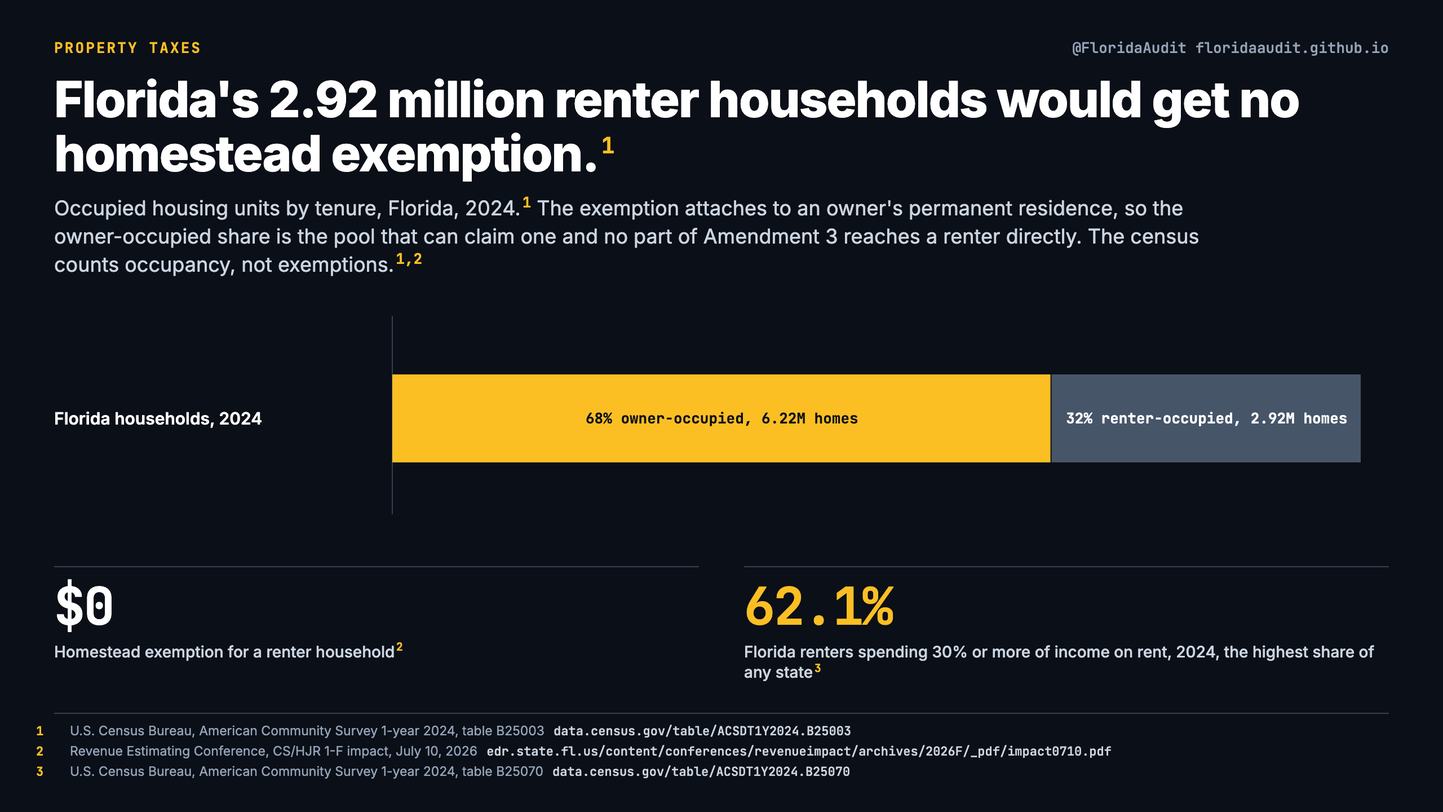
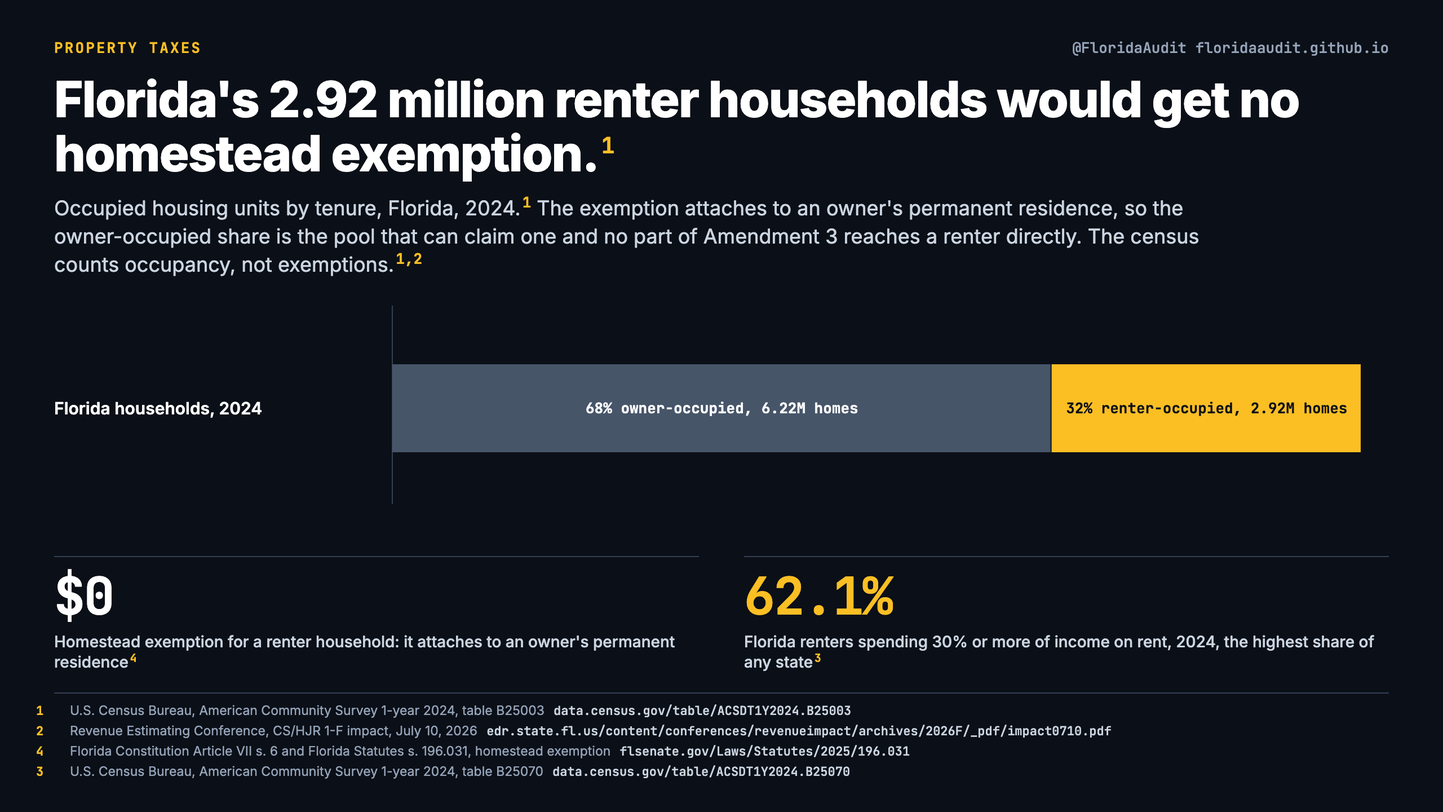
Methods rule rewritten, Property Taxes charts rebuilt

diff --git a/c/property-taxes/index.html b/c/property-taxes/index.html
@@ -28,15 +28,15 @@
       <dt>What these charts establish</dt><dd>What the amendment's text does and who it reaches: homesteads, non-homestead property through a lower assessment cap, and renters not at all. It also carries the state Revenue Estimating Conference's estimate of lost local revenue, statewide and county by county. It does not show how counties and cities would respond.</dd>
     </dl>
     <ul class="topic-charts">
-      <li><a href="/c/property-taxes/homestead-exemption-amounts.html"><img src="/charts/property-taxes/homestead-exemption-amounts.webp" width="1280" height="720" alt="By 2028 the maximum non-school homestead exemption would be $250,000 under Amendment 3, against $52,805 under current law. Maximum exempt assessed value for a qualifying homestead, non-school levies, by roll year. All three lines start at today's $51,411. The steps stop in 2028 and the top line only tracks inflation after that, while the revenue it removes keeps growing to 2031-32. Nominal dollars." loading="lazy"><span>By 2028 the maximum non-school homestead exemption would be $250,000 under Amendment 3, against $52,805 under current law.</span></a></li>
+      <li><a href="/c/property-taxes/homestead-exemption-amounts.html"><img src="/charts/property-taxes/homestead-exemption-amounts.webp" width="1280" height="720" alt="By 2028 the maximum non-school homestead exemption would be $250,000 under Amendment 3, against $52,805 under current law. Maximum exempt assessed value for a qualifying homestead, non-school levies, by roll year. Both lines start at today's $51,411. The steps stop in 2028 and the top line only tracks inflation after that, while the revenue it removes keeps growing to 2031-32. Nominal dollars." loading="lazy"><span>By 2028 the maximum non-school homestead exemption would be $250,000 under Amendment 3, against $52,805 under current law.</span></a></li>
       <li><a href="/c/property-taxes/homeowner-savings.html"><img src="/charts/property-taxes/homeowner-savings.webp" width="1280" height="720" alt="From 2028, the exemption would cut a homestead's non-school property tax by at most $2,075 a year. Yearly saving for one qualifying homestead, not for a household: the exempt value added over the 2026 maximum ($98,589 in 2027, $198,589 in 2028), taxed at an average non-school rate, with no rate or inflation changes. $2,075 is the ceiling, reached only by a home with enough assessed value to use the whole exemption; below that a home saves in proportion to its assessed value, and a renter saves nothing. The statewide figure is calculated here from Department of Revenue millage. Pinellas County is the sole county who published its own illustration, at 12.2011 mills against the state's 10.449." loading="lazy"><span>From 2028, the exemption would cut a homestead's non-school property tax by at most $2,075 a year.</span></a></li>
       <li><a href="/c/property-taxes/renters-and-new-residents.html"><img src="/charts/property-taxes/renters-and-new-residents.webp" width="1280" height="720" alt="Florida's 2.92 million renter households would get no homestead exemption. Occupied housing units by tenure, Florida, 2024. The exemption attaches to an owner's permanent residence, so the owner-occupied share is the pool that can claim one and no part of Amendment 3 reaches a renter directly. The census counts occupancy, not exemptions." loading="lazy"><span>Florida's 2.92 million renter households would get no homestead exemption.</span></a></li>
       <li><a href="/c/property-taxes/local-revenue-impact.html"><img src="/charts/property-taxes/local-revenue-impact.webp" width="1280" height="720" alt="Amendment 3 would reduce local non-school property tax revenue by an estimated $11.83 billion a year by 2031. Estimated reduction in local non-school property tax revenue by the government that levies it. On the November 3, 2026 ballot; needs 60% to pass. Ten counties carry $7.54B of it, led by Miami-Dade $1.39B and Broward $1.19B, with all 67 in the CSV. It keeps growing after the exemption stops stepping up in 2028, because the conference counts the sixth year as the recurring impact and the lower assessment cap compounds. Holds 2025 tax rates constant. Nominal dollars." loading="lazy"><span>Amendment 3 would reduce local non-school property tax revenue by an estimated $11.83 billion a year by 2031.</span></a></li>
       <li><a href="/c/property-taxes/permitted-uses.html"><img src="/charts/property-taxes/permitted-uses.webp" width="1280" height="720" alt="Amendment 3 lists seven permitted uses for county and city property taxes. Text of the proposed Article VII, Section 9(a)(2). School district and special district levies are not covered by this list." loading="lazy"><span>Amendment 3 lists seven permitted uses for county and city property taxes.</span></a></li>
       <li><a href="/c/property-taxes/the-legislative-vote.html"><img src="/charts/property-taxes/the-legislative-vote.webp" width="1280" height="720" alt="Amendment 3 is on the ballot because the Legislature put it there: 75-26 in the House, 30-9 in the Senate. Votes on June 2, 2026 on CS/HJR 1-F. A joint resolution does not go to the governor." loading="lazy"><span>Amendment 3 is on the ballot because the Legislature put it there: 75-26 in the House, 30-9 in the Senate.</span></a></li>
-      <li><a href="/c/property-taxes/impact-by-county.html"><img src="/charts/property-taxes/impact-by-county.webp" width="1280" height="720" alt="As a share of today's budget, eight counties will lose more than half of their non-school property tax. Recurring annual reduction estimated for FY2031-32, against each county's 2025 non-school levies, for every local government in the county. The two years are deliberate: the base grows by 2031, so the share of that later base is smaller than the share here. Holds 2025 tax rates constant." loading="lazy"><span>As a share of today's budget, eight counties will lose more than half of their non-school property tax.</span></a></li>
+      <li><a href="/c/property-taxes/impact-by-county.html"><img src="/charts/property-taxes/impact-by-county.webp" width="1280" height="720" alt="As a share of today's budget, eight counties will lose more than half of their non-school property tax. Recurring annual reduction estimated for FY2031-32, against each county's 2025 non-school levies, for every local government in the county. The two years are deliberate: the base grows by 2031, so the share of that later base is smaller than the share here. Holds 2025 tax rates constant. All 67 counties are in the CSV." loading="lazy"><span>As a share of today's budget, eight counties will lose more than half of their non-school property tax.</span></a></li>
       <li><a href="/c/property-taxes/impact-by-county-dollars.html"><img src="/charts/property-taxes/impact-by-county-dollars.webp" width="1280" height="720" alt="Ten counties carry $7.54 billion of the $11.83 billion, and two thirds of it comes off county government. Recurring annual reduction in local non-school property tax revenue once the exemption is fully phased in, for the ten largest of Florida's 67 counties, split between the county government and the cities and special districts inside it. Duval has no county-government bar: Jacksonville and Duval County are one consolidated government, which the table files as a municipality, so its whole reduction sits in the purple bar. All 67 counties are in the CSV behind this chart. Holds 2025 tax rates constant. Nominal dollars." loading="lazy"><span>Ten counties carry $7.54 billion of the $11.83 billion, and two thirds of it comes off county government.</span></a></li>
-      <li><a href="/c/property-taxes/non-homestead-assessment-cap.html"><img src="/charts/property-taxes/non-homestead-assessment-cap.webp" width="1280" height="720" alt="Separately, the yearly assessment cap on rental and commercial property would fall from 10% to 5%. Maximum annual growth in taxable assessed value for non-homestead, non-agricultural parcels, non-school levies; the current 10% cap has been in place since 2008. The cap limits the value the tax is computed on, not the market price, not the rent, and not the millage rate. The lines are an illustration calculated here, not a forecast: one parcel assessed at $1,000,000 in 2026 whose market value then rises 12% a year, the condition under which a cap binds at all." loading="lazy"><span>Separately, the yearly assessment cap on rental and commercial property would fall from 10% to 5%.</span></a></li>
+      <li><a href="/c/property-taxes/non-homestead-assessment-cap.html"><img src="/charts/property-taxes/non-homestead-assessment-cap.webp" width="1280" height="720" alt="Separately, the yearly assessment cap on rental and commercial property would fall from 10% to 5%. Maximum annual growth in taxable assessed value for non-homestead, non-agricultural parcels, non-school levies; the current 10% cap has been in place since 2008. The cap limits the value the tax is computed on, not the market price, not the rent, and not the millage rate. The lines are an illustration calculated here, not a forecast: one parcel assessed at $1,000,000 in 2026 whose market value then rises 12% a year, about what Florida saw in 2021 and 2022. A 5% cap bites whenever growth runs above 5%; the current 10% cap only bites above 10%." loading="lazy"><span>Separately, the yearly assessment cap on rental and commercial property would fall from 10% to 5%.</span></a></li>
     </ul>
   </article></main>
 <footer><a href="/">All charts</a> · <a href="/methods.html">Methods</a> · <a href="/corrections.html">Corrections</a></footer>

diff --git a/c/property-taxes/non-homestead-assessment-cap.html b/c/property-taxes/non-homestead-assessment-cap.html
@@ -15,13 +15,13 @@
   <meta property="og:image" content="https://floridaaudit.github.io/charts/property-taxes/non-homestead-assessment-cap-card.png">
   <meta property="og:image:width" content="1200">
   <meta property="og:image:height" content="630">
-  <meta property="og:image:alt" content="Separately, the yearly assessment cap on rental and commercial property would fall from 10% to 5%. Maximum annual growth in taxable assessed value for non-homestead, non-agricultural parcels, non-school levies; the current 10% cap has been in place since 2008. The cap limits the value the tax is computed on, not the market price, not the rent, and not the millage rate. The lines are an illustration calculated here, not a forecast: one parcel assessed at $1,000,000 in 2026 whose market value then rises 12% a year, the condition under which a cap binds at all.">
+  <meta property="og:image:alt" content="Separately, the yearly assessment cap on rental and commercial property would fall from 10% to 5%. Maximum annual growth in taxable assessed value for non-homestead, non-agricultural parcels, non-school levies; the current 10% cap has been in place since 2008. The cap limits the value the tax is computed on, not the market price, not the rent, and not the millage rate. The lines are an illustration calculated here, not a forecast: one parcel assessed at $1,000,000 in 2026 whose market value then rises 12% a year, about what Florida saw in 2021 and 2022. A 5% cap bites whenever growth runs above 5%; the current 10% cap only bites above 10%.">
   <meta name="twitter:card" content="summary_large_image">
   <meta name="twitter:site" content="@FloridaAudit">
   <meta name="twitter:title" content="Separately, the yearly assessment cap on rental and commercial property would fall from 10% to 5%.">
   <meta name="twitter:description" content="Property Taxes: Maximum annual growth in taxable assessed value for non-homestead, non-agricultural parcels, non-school levies; the current 10% cap has been...">
   <meta name="twitter:image" content="https://floridaaudit.github.io/charts/property-taxes/non-homestead-assessment-cap-card.png">
-  <meta name="twitter:image:alt" content="Separately, the yearly assessment cap on rental and commercial property would fall from 10% to 5%. Maximum annual growth in taxable assessed value for non-homestead, non-agricultural parcels, non-school levies; the current 10% cap has been in place since 2008. The cap limits the value the tax is computed on, not the market price, not the rent, and not the millage rate. The lines are an illustration calculated here, not a forecast: one parcel assessed at $1,000,000 in 2026 whose market value then rises 12% a year, the condition under which a cap binds at all.">
+  <meta name="twitter:image:alt" content="Separately, the yearly assessment cap on rental and commercial property would fall from 10% to 5%. Maximum annual growth in taxable assessed value for non-homestead, non-agricultural parcels, non-school levies; the current 10% cap has been in place since 2008. The cap limits the value the tax is computed on, not the market price, not the rent, and not the millage rate. The lines are an illustration calculated here, not a forecast: one parcel assessed at $1,000,000 in 2026 whose market value then rises 12% a year, about what Florida saw in 2021 and 2022. A 5% cap bites whenever growth runs above 5%; the current 10% cap only bites above 10%.">
   <link rel="icon" href="/assets/favicon.png" type="image/png">
   <link rel="stylesheet" href="/assets/site.css">
   <script type="application/ld+json">
@@ -70,9 +70,9 @@
   <article>
     <p class="kicker">Property Taxes</p>
     <h1>Separately, the yearly assessment cap on rental and commercial property would fall from 10% to 5%.</h1>
-    <p class="sub">Maximum annual growth in taxable assessed value for non-homestead, non-agricultural parcels, non-school levies; the current 10% cap has been in place since 2008. The cap limits the value the tax is computed on, not the market price, not the rent, and not the millage rate. The lines are an illustration calculated here, not a forecast: one parcel assessed at $1,000,000 in 2026 whose market value then rises 12% a year, the condition under which a cap binds at all.</p>
+    <p class="sub">Maximum annual growth in taxable assessed value for non-homestead, non-agricultural parcels, non-school levies; the current 10% cap has been in place since 2008. The cap limits the value the tax is computed on, not the market price, not the rent, and not the millage rate. The lines are an illustration calculated here, not a forecast: one parcel assessed at $1,000,000 in 2026 whose market value then rises 12% a year, about what Florida saw in 2021 and 2022. A 5% cap bites whenever growth runs above 5%; the current 10% cap only bites above 10%.</p>
     <figure>
-      <img src="/charts/property-taxes/non-homestead-assessment-cap.webp" width="1280" height="720" alt="Separately, the yearly assessment cap on rental and commercial property would fall from 10% to 5%. Maximum annual growth in taxable assessed value for non-homestead, non-agricultural parcels, non-school levies; the current 10% cap has been in place since 2008. The cap limits the value the tax is computed on, not the market price, not the rent, and not the millage rate. The lines are an illustration calculated here, not a forecast: one parcel assessed at $1,000,000 in 2026 whose market value then rises 12% a year, the condition under which a cap binds at all.">
+      <img src="/charts/property-taxes/non-homestead-assessment-cap.webp" width="1280" height="720" alt="Separately, the yearly assessment cap on rental and commercial property would fall from 10% to 5%. Maximum annual growth in taxable assessed value for non-homestead, non-agricultural parcels, non-school levies; the current 10% cap has been in place since 2008. The cap limits the value the tax is computed on, not the market price, not the rent, and not the millage rate. The lines are an illustration calculated here, not a forecast: one parcel assessed at $1,000,000 in 2026 whose market value then rises 12% a year, about what Florida saw in 2021 and 2022. A 5% cap bites whenever growth runs above 5%; the current 10% cap only bites above 10%.">
       <figcaption>Full size: <a href="/charts/property-taxes/non-homestead-assessment-cap.png">PNG, 2560 by 1440</a></figcaption>
     </figure>
     <p class="download"><a href="/data/property-taxes/assessment-cap-illustration.csv">Download the data behind this chart (assessment-cap-illustration.csv)</a></p>

diff --git a/c/property-taxes/impact-by-county.html b/c/property-taxes/impact-by-county.html
@@ -15,13 +15,13 @@
   <meta property="og:image" content="https://floridaaudit.github.io/charts/property-taxes/impact-by-county-card.png">
   <meta property="og:image:width" content="1200">
   <meta property="og:image:height" content="630">
-  <meta property="og:image:alt" content="As a share of today's budget, eight counties will lose more than half of their non-school property tax. Recurring annual reduction estimated for FY2031-32, against each county's 2025 non-school levies, for every local government in the county. The two years are deliberate: the base grows by 2031, so the share of that later base is smaller than the share here. Holds 2025 tax rates constant.">
+  <meta property="og:image:alt" content="As a share of today's budget, eight counties will lose more than half of their non-school property tax. Recurring annual reduction estimated for FY2031-32, against each county's 2025 non-school levies, for every local government in the county. The two years are deliberate: the base grows by 2031, so the share of that later base is smaller than the share here. Holds 2025 tax rates constant. All 67 counties are in the CSV.">
   <meta name="twitter:card" content="summary_large_image">
   <meta name="twitter:site" content="@FloridaAudit">
   <meta name="twitter:title" content="As a share of today's budget, eight counties will lose more than half of their non-school property tax.">
   <meta name="twitter:description" content="Property Taxes: Recurring annual reduction estimated for FY2031-32, against each county's 2025 non-school levies, for every local government in the county.">
   <meta name="twitter:image" content="https://floridaaudit.github.io/charts/property-taxes/impact-by-county-card.png">
-  <meta name="twitter:image:alt" content="As a share of today's budget, eight counties will lose more than half of their non-school property tax. Recurring annual reduction estimated for FY2031-32, against each county's 2025 non-school levies, for every local government in the county. The two years are deliberate: the base grows by 2031, so the share of that later base is smaller than the share here. Holds 2025 tax rates constant.">
+  <meta name="twitter:image:alt" content="As a share of today's budget, eight counties will lose more than half of their non-school property tax. Recurring annual reduction estimated for FY2031-32, against each county's 2025 non-school levies, for every local government in the county. The two years are deliberate: the base grows by 2031, so the share of that later base is smaller than the share here. Holds 2025 tax rates constant. All 67 counties are in the CSV.">
   <link rel="icon" href="/assets/favicon.png" type="image/png">
   <link rel="stylesheet" href="/assets/site.css">
   <script type="application/ld+json">
@@ -69,9 +69,9 @@
   <article>
     <p class="kicker">Property Taxes</p>
     <h1>As a share of today's budget, eight counties will lose more than half of their non-school property tax.</h1>
-    <p class="sub">Recurring annual reduction estimated for FY2031-32, against each county's 2025 non-school levies, for every local government in the county. The two years are deliberate: the base grows by 2031, so the share of that later base is smaller than the share here. Holds 2025 tax rates constant.</p>
+    <p class="sub">Recurring annual reduction estimated for FY2031-32, against each county's 2025 non-school levies, for every local government in the county. The two years are deliberate: the base grows by 2031, so the share of that later base is smaller than the share here. Holds 2025 tax rates constant. All 67 counties are in the CSV.</p>
     <figure>
-      <img src="/charts/property-taxes/impact-by-county.webp" width="1280" height="720" alt="As a share of today's budget, eight counties will lose more than half of their non-school property tax. Recurring annual reduction estimated for FY2031-32, against each county's 2025 non-school levies, for every local government in the county. The two years are deliberate: the base grows by 2031, so the share of that later base is smaller than the share here. Holds 2025 tax rates constant.">
+      <img src="/charts/property-taxes/impact-by-county.webp" width="1280" height="720" alt="As a share of today's budget, eight counties will lose more than half of their non-school property tax. Recurring annual reduction estimated for FY2031-32, against each county's 2025 non-school levies, for every local government in the county. The two years are deliberate: the base grows by 2031, so the share of that later base is smaller than the share here. Holds 2025 tax rates constant. All 67 counties are in the CSV.">
       <figcaption>Full size: <a href="/charts/property-taxes/impact-by-county.png">PNG, 2560 by 1440</a></figcaption>
     </figure>
     <p class="download"><a href="/data/property-taxes/county-reduction-share.csv">Download the data behind this chart (county-reduction-share.csv)</a></p>

diff --git a/c/property-taxes/homestead-exemption-amounts.html b/c/property-taxes/homestead-exemption-amounts.html
@@ -15,13 +15,13 @@
   <meta property="og:image" content="https://floridaaudit.github.io/charts/property-taxes/homestead-exemption-amounts-card.png">
   <meta property="og:image:width" content="1200">
   <meta property="og:image:height" content="630">
-  <meta property="og:image:alt" content="By 2028 the maximum non-school homestead exemption would be $250,000 under Amendment 3, against $52,805 under current law. Maximum exempt assessed value for a qualifying homestead, non-school levies, by roll year. All three lines start at today's $51,411. The steps stop in 2028 and the top line only tracks inflation after that, while the revenue it removes keeps growing to 2031-32. Nominal dollars.">
+  <meta property="og:image:alt" content="By 2028 the maximum non-school homestead exemption would be $250,000 under Amendment 3, against $52,805 under current law. Maximum exempt assessed value for a qualifying homestead, non-school levies, by roll year. Both lines start at today's $51,411. The steps stop in 2028 and the top line only tracks inflation after that, while the revenue it removes keeps growing to 2031-32. Nominal dollars.">
   <meta name="twitter:card" content="summary_large_image">
   <meta name="twitter:site" content="@FloridaAudit">
   <meta name="twitter:title" content="By 2028 the maximum non-school homestead exemption would be $250,000 under Amendment 3, against $52,805 under current law.">
   <meta name="twitter:description" content="Property Taxes: Maximum exempt assessed value for a qualifying homestead, non-school levies, by roll year.">
   <meta name="twitter:image" content="https://floridaaudit.github.io/charts/property-taxes/homestead-exemption-amounts-card.png">
-  <meta name="twitter:image:alt" content="By 2028 the maximum non-school homestead exemption would be $250,000 under Amendment 3, against $52,805 under current law. Maximum exempt assessed value for a qualifying homestead, non-school levies, by roll year. All three lines start at today's $51,411. The steps stop in 2028 and the top line only tracks inflation after that, while the revenue it removes keeps growing to 2031-32. Nominal dollars.">
+  <meta name="twitter:image:alt" content="By 2028 the maximum non-school homestead exemption would be $250,000 under Amendment 3, against $52,805 under current law. Maximum exempt assessed value for a qualifying homestead, non-school levies, by roll year. Both lines start at today's $51,411. The steps stop in 2028 and the top line only tracks inflation after that, while the revenue it removes keeps growing to 2031-32. Nominal dollars.">
   <link rel="icon" href="/assets/favicon.png" type="image/png">
   <link rel="stylesheet" href="/assets/site.css">
   <script type="application/ld+json">
@@ -71,9 +71,9 @@
   <article>
     <p class="kicker">Property Taxes</p>
     <h1>By 2028 the maximum non-school homestead exemption would be $250,000 under Amendment 3, against $52,805 under current law.</h1>
-    <p class="sub">Maximum exempt assessed value for a qualifying homestead, non-school levies, by roll year. All three lines start at today's $51,411. The steps stop in 2028 and the top line only tracks inflation after that, while the revenue it removes keeps growing to 2031-32. Nominal dollars.</p>
+    <p class="sub">Maximum exempt assessed value for a qualifying homestead, non-school levies, by roll year. Both lines start at today's $51,411. The steps stop in 2028 and the top line only tracks inflation after that, while the revenue it removes keeps growing to 2031-32. Nominal dollars.</p>
     <figure>
-      <img src="/charts/property-taxes/homestead-exemption-amounts.webp" width="1280" height="720" alt="By 2028 the maximum non-school homestead exemption would be $250,000 under Amendment 3, against $52,805 under current law. Maximum exempt assessed value for a qualifying homestead, non-school levies, by roll year. All three lines start at today's $51,411. The steps stop in 2028 and the top line only tracks inflation after that, while the revenue it removes keeps growing to 2031-32. Nominal dollars.">
+      <img src="/charts/property-taxes/homestead-exemption-amounts.webp" width="1280" height="720" alt="By 2028 the maximum non-school homestead exemption would be $250,000 under Amendment 3, against $52,805 under current law. Maximum exempt assessed value for a qualifying homestead, non-school levies, by roll year. Both lines start at today's $51,411. The steps stop in 2028 and the top line only tracks inflation after that, while the revenue it removes keeps growing to 2031-32. Nominal dollars.">
       <figcaption>Full size: <a href="/charts/property-taxes/homestead-exemption-amounts.png">PNG, 2560 by 1440</a></figcaption>
     </figure>
     <p class="download"><a href="/data/property-taxes/exemption-schedule.csv">Download the data behind this chart (exemption-schedule.csv)</a></p>

diff --git a/c/property-taxes/renters-and-new-residents.html b/c/property-taxes/renters-and-new-residents.html
@@ -59,6 +59,7 @@
   "citation": [
     "U.S. Census Bureau, American Community Survey 1-year 2024, table B25003",
     "Revenue Estimating Conference, CS/HJR 1-F impact, July 10, 2026",
+    "Florida Constitution Article VII s. 6 and Florida Statutes s. 196.031, homestead exemption",
     "U.S. Census Bureau, American Community Survey 1-year 2024, table B25070"
   ]
 }
@@ -81,6 +82,7 @@
       <ol>
         <li>U.S. Census Bureau, American Community Survey 1-year 2024, table B25003 <a href="https://data.census.gov/table/ACSDT1Y2024.B25003?g=040XX00US12">data.census.gov/table/ACSDT1Y2024.B25003?g=040XX00US12</a></li>
         <li>Revenue Estimating Conference, CS/HJR 1-F impact, July 10, 2026 <a href="https://edr.state.fl.us/content/conferences/revenueimpact/archives/2026F/_pdf/impact0710.pdf">edr.state.fl.us/content/conferences/revenueimpact/archives/2026F/_pdf/impact0710.pdf</a></li>
+        <li>Florida Constitution Article VII s. 6 and Florida Statutes s. 196.031, homestead exemption <a href="https://www.flsenate.gov/Laws/Statutes/2025/196.031">www.flsenate.gov/Laws/Statutes/2025/196.031</a></li>
         <li>U.S. Census Bureau, American Community Survey 1-year 2024, table B25070 <a href="https://data.census.gov/table/ACSDT1Y2024.B25070?g=040XX00US12">data.census.gov/table/ACSDT1Y2024.B25070?g=040XX00US12</a></li>
       </ol>
     </section>

diff --git a/methods.html b/methods.html
@@ -43,7 +43,7 @@
 
   <p><strong>Stated vintages.</strong> Every figure carries its year, and a chart mixing years says so.</p>
 
-  <p><strong>Like-for-like ratios.</strong> No ratio whose top and bottom come from different years unless both are put on one basis and that basis is stated. Where no same-basis figure is published, a ratio may still be shown if the chart names both years and says which way the mismatch runs: an estimate for a future year measured against today's base overstates the share, because the base grows.</p>
+  <p><strong>No unstated ratios across years.</strong> A percentage is never calculated by dividing a figure from one year by a base from another unless the mismatch is stated on the chart along with the direction of the bias it creates.</p>
 
   <p><strong>Axes include zero.</strong> Where a chart legitimately cannot, it draws labelled ticks so the range stays visible.</p>
 
